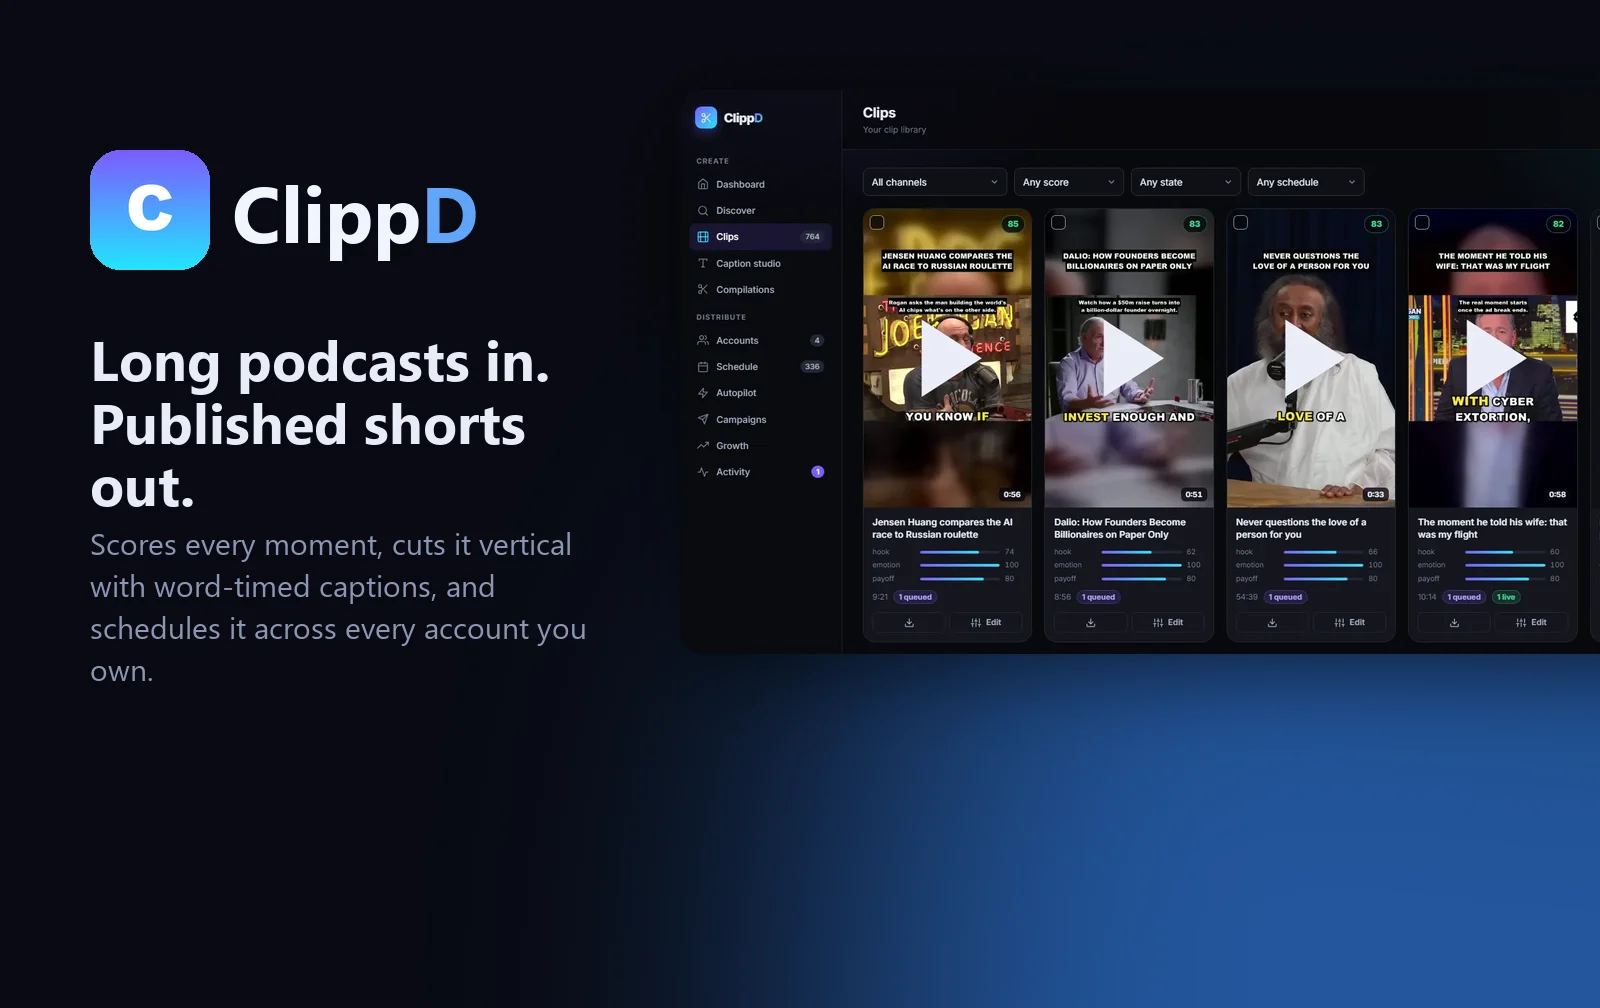
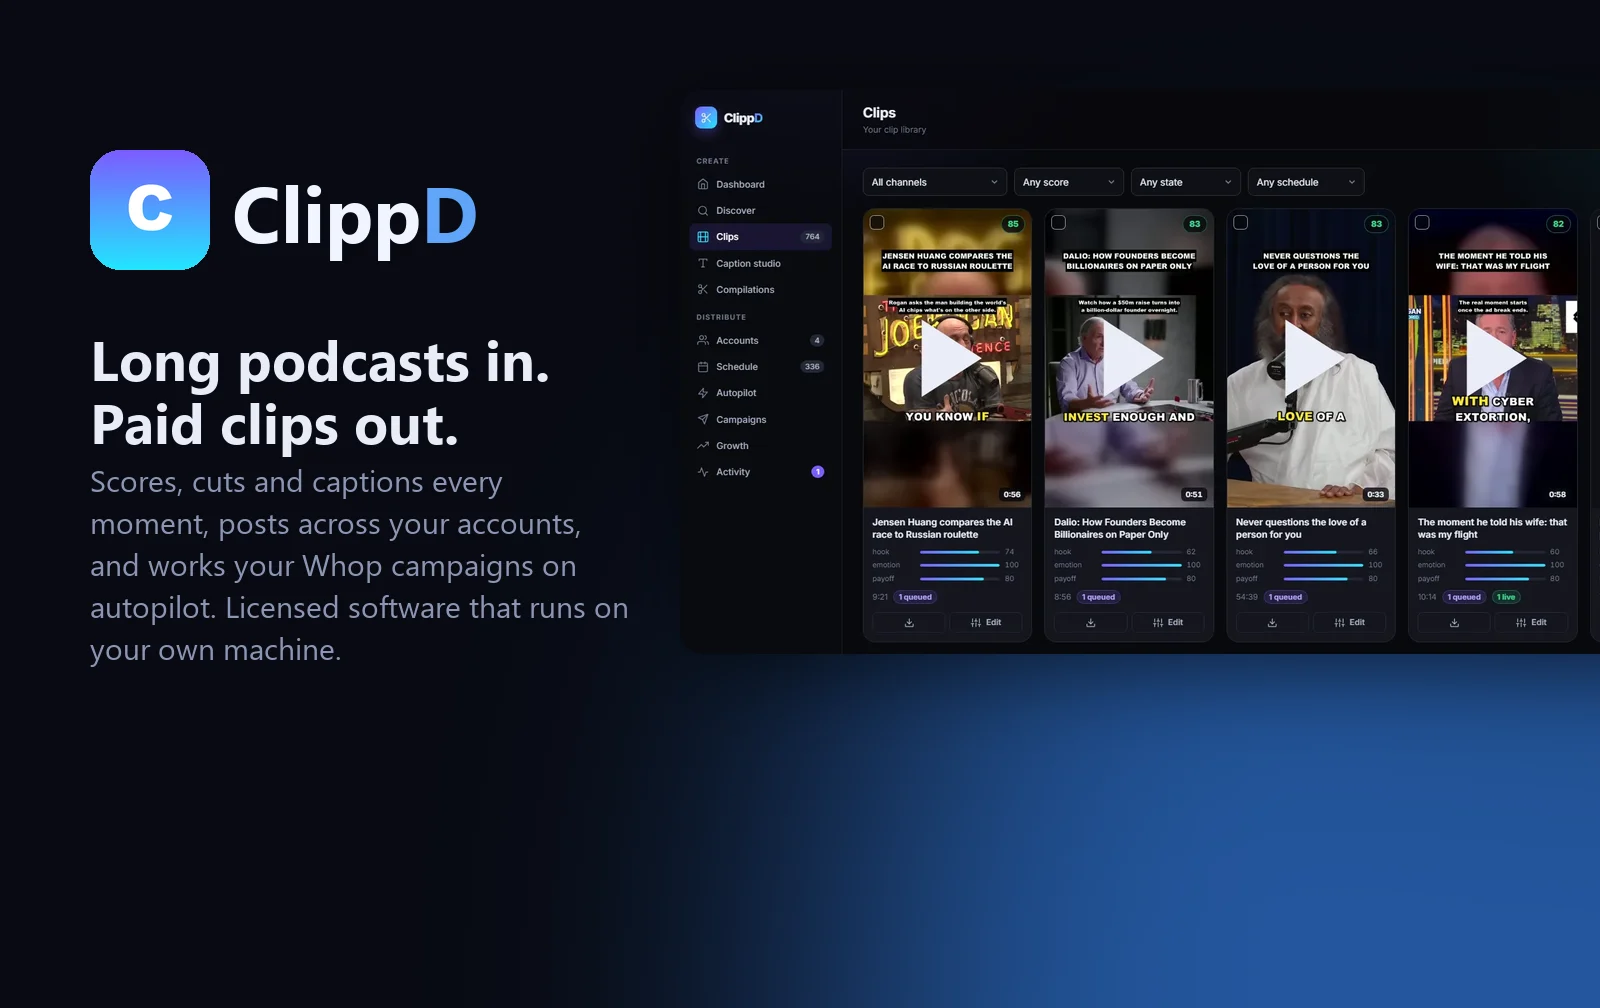
ClippD: Whop connectivity, marketplace autopilot, and licensing
The write-up now covers the Whop side - marketplace search inside the app,
the six-hourly autopilot that refreshes budgets, pauses dying campaigns and
adds new ones, the headless submitter working Whop's 30-minute window, and
the sync that mirrors verdicts, views and payouts onto posts. States plainly
that ClippD runs on the user's own machine and is licensed per copy, with a
licence-enquiry mailto as the primary link. New Campaigns screenshot
(transient error line and stats row hidden; nothing altered), billboard and
share cover re-rendered.

Changed region(s): [[0.0312, 0.3998, 0.4062, 0.6766]]

diff --git a/src/data.js b/src/data.js
@@ -167,32 +167,37 @@ export const projects = [
     index: "04",
     code: "VOL_04",
     name: "ClippD",
-    kind: "Video pipeline + publishing tool",
-    status: "In use",
+    kind: "Clipping and publishing software — licensed, runs on your machine",
+    status: "Licensing",
     statusTone: "live",
     year: "2026",
     version: "Python · FastAPI",
     blurb:
-      "Give it a long YouTube video and it finds the best moments, cuts them vertical with word-by-word captions, and posts them across every YouTube and TikTok account you own on a calendar you can fill months ahead.",
+      "Give it a long YouTube video and it finds the best moments, cuts them vertical with word-by-word captions, posts them across every YouTube and TikTok account you own — and, if you clip for paid campaigns, it finds the briefs, follows their rules and files the submissions for you.",
     body: [
-      "Every candidate window is snapped to sentence boundaries and scored on five axes — hook, emotion, payoff, clarity and whether a stranger could follow it cold — then overlapping cuts are suppressed so you get distinct moments, not ten versions of one. Claude re-ranks the shortlist and writes the titles and captions; without a key the local scorer carries everything, nothing hard-depends on the API.",
-      "Rendering is ffmpeg with ASS captions burned in one word per dialogue event, five caption presets, three framing modes including a speaker-follow crop. When the shorts data showed a median of zero views with four clips carrying 99 % of the total, I added Compilations: ten-minute 16:9 highlight videos cut from the source, with cold open, chapter cards and a thumbnail, rendered in about two minutes on NVENC.",
-      "It's also a business tool. A rights gate blocks any clip without a recorded basis for reuse and appends attribution at commit so it can't drift. Campaigns encode the rules of paid clipping briefs — must-say keywords, banned topics, length limits, logo overlays, per-account caps — and a headless browser files each submission to the marketplace after the post goes up.",
+      "Every candidate window is snapped to sentence boundaries and scored on five axes — hook, emotion, payoff, clarity and whether a stranger could follow it cold — then overlapping cuts are suppressed so you get distinct moments, not ten versions of one. Claude re-ranks the shortlist and writes the titles and captions; without a key the local scorer carries everything. Rendering is ffmpeg with ASS captions burned in one word per dialogue event, five caption presets, three framing modes including a speaker-follow crop, and ten-minute 16:9 compilations with cold open, chapter cards and a thumbnail, rendered in about two minutes on NVENC.",
+      "The Whop side is what makes it a business tool. Whop Content Rewards pays per thousand views for clipping footage a brand has licensed, under rules the brand sets and a submission window of thirty minutes after a clip goes live. ClippD connects to your Whop account, searches the marketplace from inside the app, and a marketplace autopilot scans every six hours: it refreshes each campaign's remaining budget and burn rate, pauses the ones about to run dry, adds the best new listings and starts cutting their footage unattended. Each brief's rules — must-say keywords, banned topics, length limits, logo overlay, required tags and mentions, posts per account — travel with every clip, so nothing gets rejected for a rule somebody forgot.",
+      "Posting is scheduled to each account's own slots with jitter, caps and minimum gaps. The moment a campaign clip goes live, a headless browser drives Whop's submission form inside the window, reads the verdict back, and a sync mirrors Whop's review status, view counts and payouts onto the post — so the Growth page shows what each clip actually earned, not an estimate. A rights gate blocks any clip without a recorded basis for reuse and appends attribution at commit. ClippD runs locally on your own machine — your accounts, your browser profile, your footage never leave it. I licence copies; get in touch below.",
     ],
     highlights: [
-      "Five-axis clip scoring with overlap suppression",
-      "Claude re-ranks and writes hooks and captions",
-      "Word-timed ASS captions, five presets",
-      "Long-form compilations with chapters and thumbnails",
-      "Multi-account YouTube + TikTok scheduling",
-      "Rights gate, attribution and campaign rules enforced",
+      "Five-axis clip scoring, Claude re-ranking, word-timed captions",
+      "Whop marketplace search and connection inside the app",
+      "Marketplace autopilot: scout, forecast budget, auto-add, auto-pause",
+      "Campaign rules enforced on every clip, caption and post",
+      "Headless submitter files each clip within Whop's 30-minute window",
+      "Whop sync: verdicts, view counts and payouts mirrored onto posts",
+      "Multi-account YouTube + TikTok scheduling, compilations, rights gate",
+      "Runs on your own machine — nothing leaves it",
     ],
-    stack: ["Python", "FastAPI", "ffmpeg", "yt-dlp", "SQLite", "Claude API", "YouTube Data API", "Playwright", "Vanilla JS"],
-    links: [],
+    stack: ["Python", "FastAPI", "ffmpeg", "yt-dlp", "SQLite", "Claude API", "YouTube Data API", "Playwright", "Whop Content Rewards", "Vanilla JS"],
+    links: [
+      { label: "Enquire about a licence", href: "mailto:hello@kriscreates.co.uk?subject=ClippD%20licence%20enquiry", primary: true },
+    ],
     accent: "#FF5C8A",
     shot: "/shots/hero-clippd.webp",
     shotFit: "landscape",
     images: [
+      { src: "/shots/clippd-campaigns.webp", caption: "Campaigns — Whop connected, marketplace autopilot on, every brief's budget, burn rate and rules in one place" },
       { src: "/shots/clippd-clips.webp", caption: "The clip library — every cut scored on hook, emotion and payoff, captioned, queued or live" },
       { src: "/shots/clippd-dashboard.webp", caption: "Dashboard — 764 clips found, 336 scheduled across four accounts, 137 published" },
       { src: "/shots/clippd-studio.webp", caption: "Caption studio — five presets, three framing modes, live preview of the burn-in" },

diff --git a/scripts/heroes.py b/scripts/heroes.py
@@ -156,8 +156,8 @@ d = ImageDraw.Draw(c)
 fw = font(BOLD, 78)
 d.text((232, 158), "Clipp", font=fw, fill=(240, 244, 255))
 d.text((232 + d.textlength("Clipp", font=fw), 158), "D", font=fw, fill=(96, 165, 250))
-text_block(c, 90, 320, "Long podcasts in. Published shorts out.",
-           "Scores every moment, cuts it vertical with word-timed captions, and schedules it across every account you own.",
+text_block(c, 90, 320, "Long podcasts in. Paid clips out.",
+           "Scores, cuts and captions every moment, posts across your accounts, and works your Whop campaigns on autopilot. Licensed software that runs on your own machine.",
            (232, 236, 248), (140, 150, 180), tsize=56, maxw=540)
 screen(c, OUT + r"\clippd-clips.webp", 680, 90, 1100)
 c = c.crop((0, 0, W, H))
